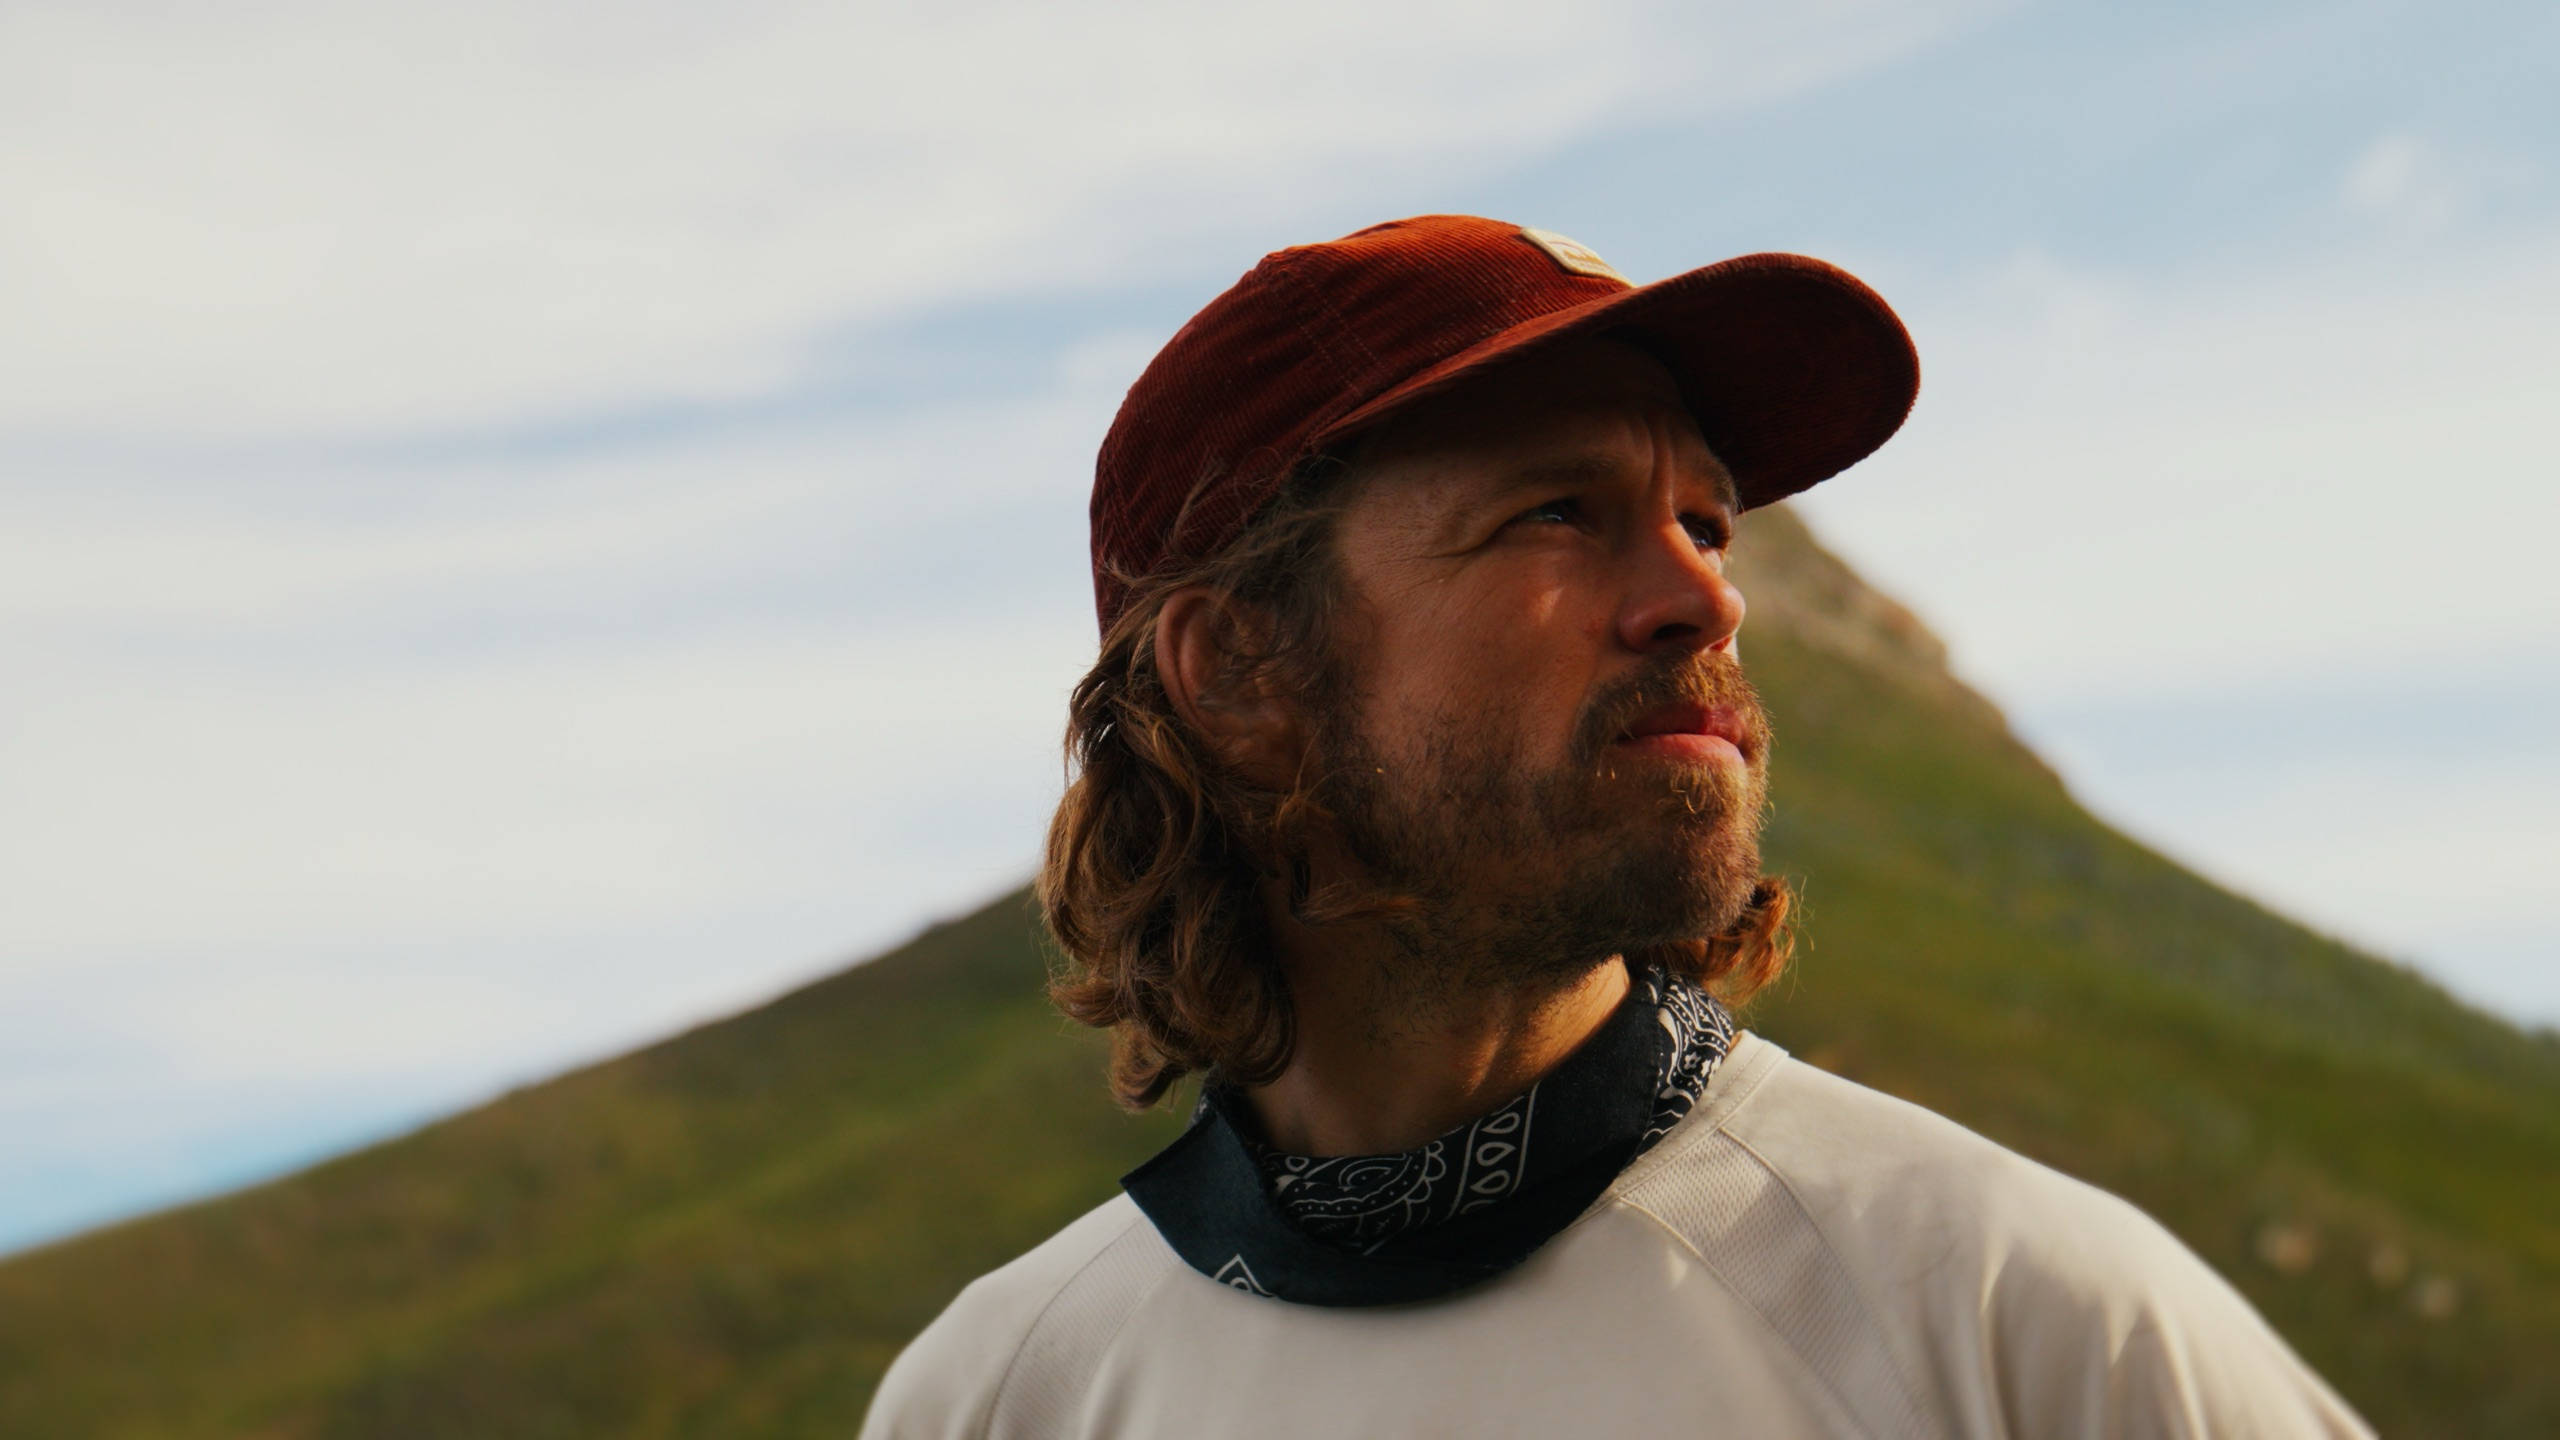
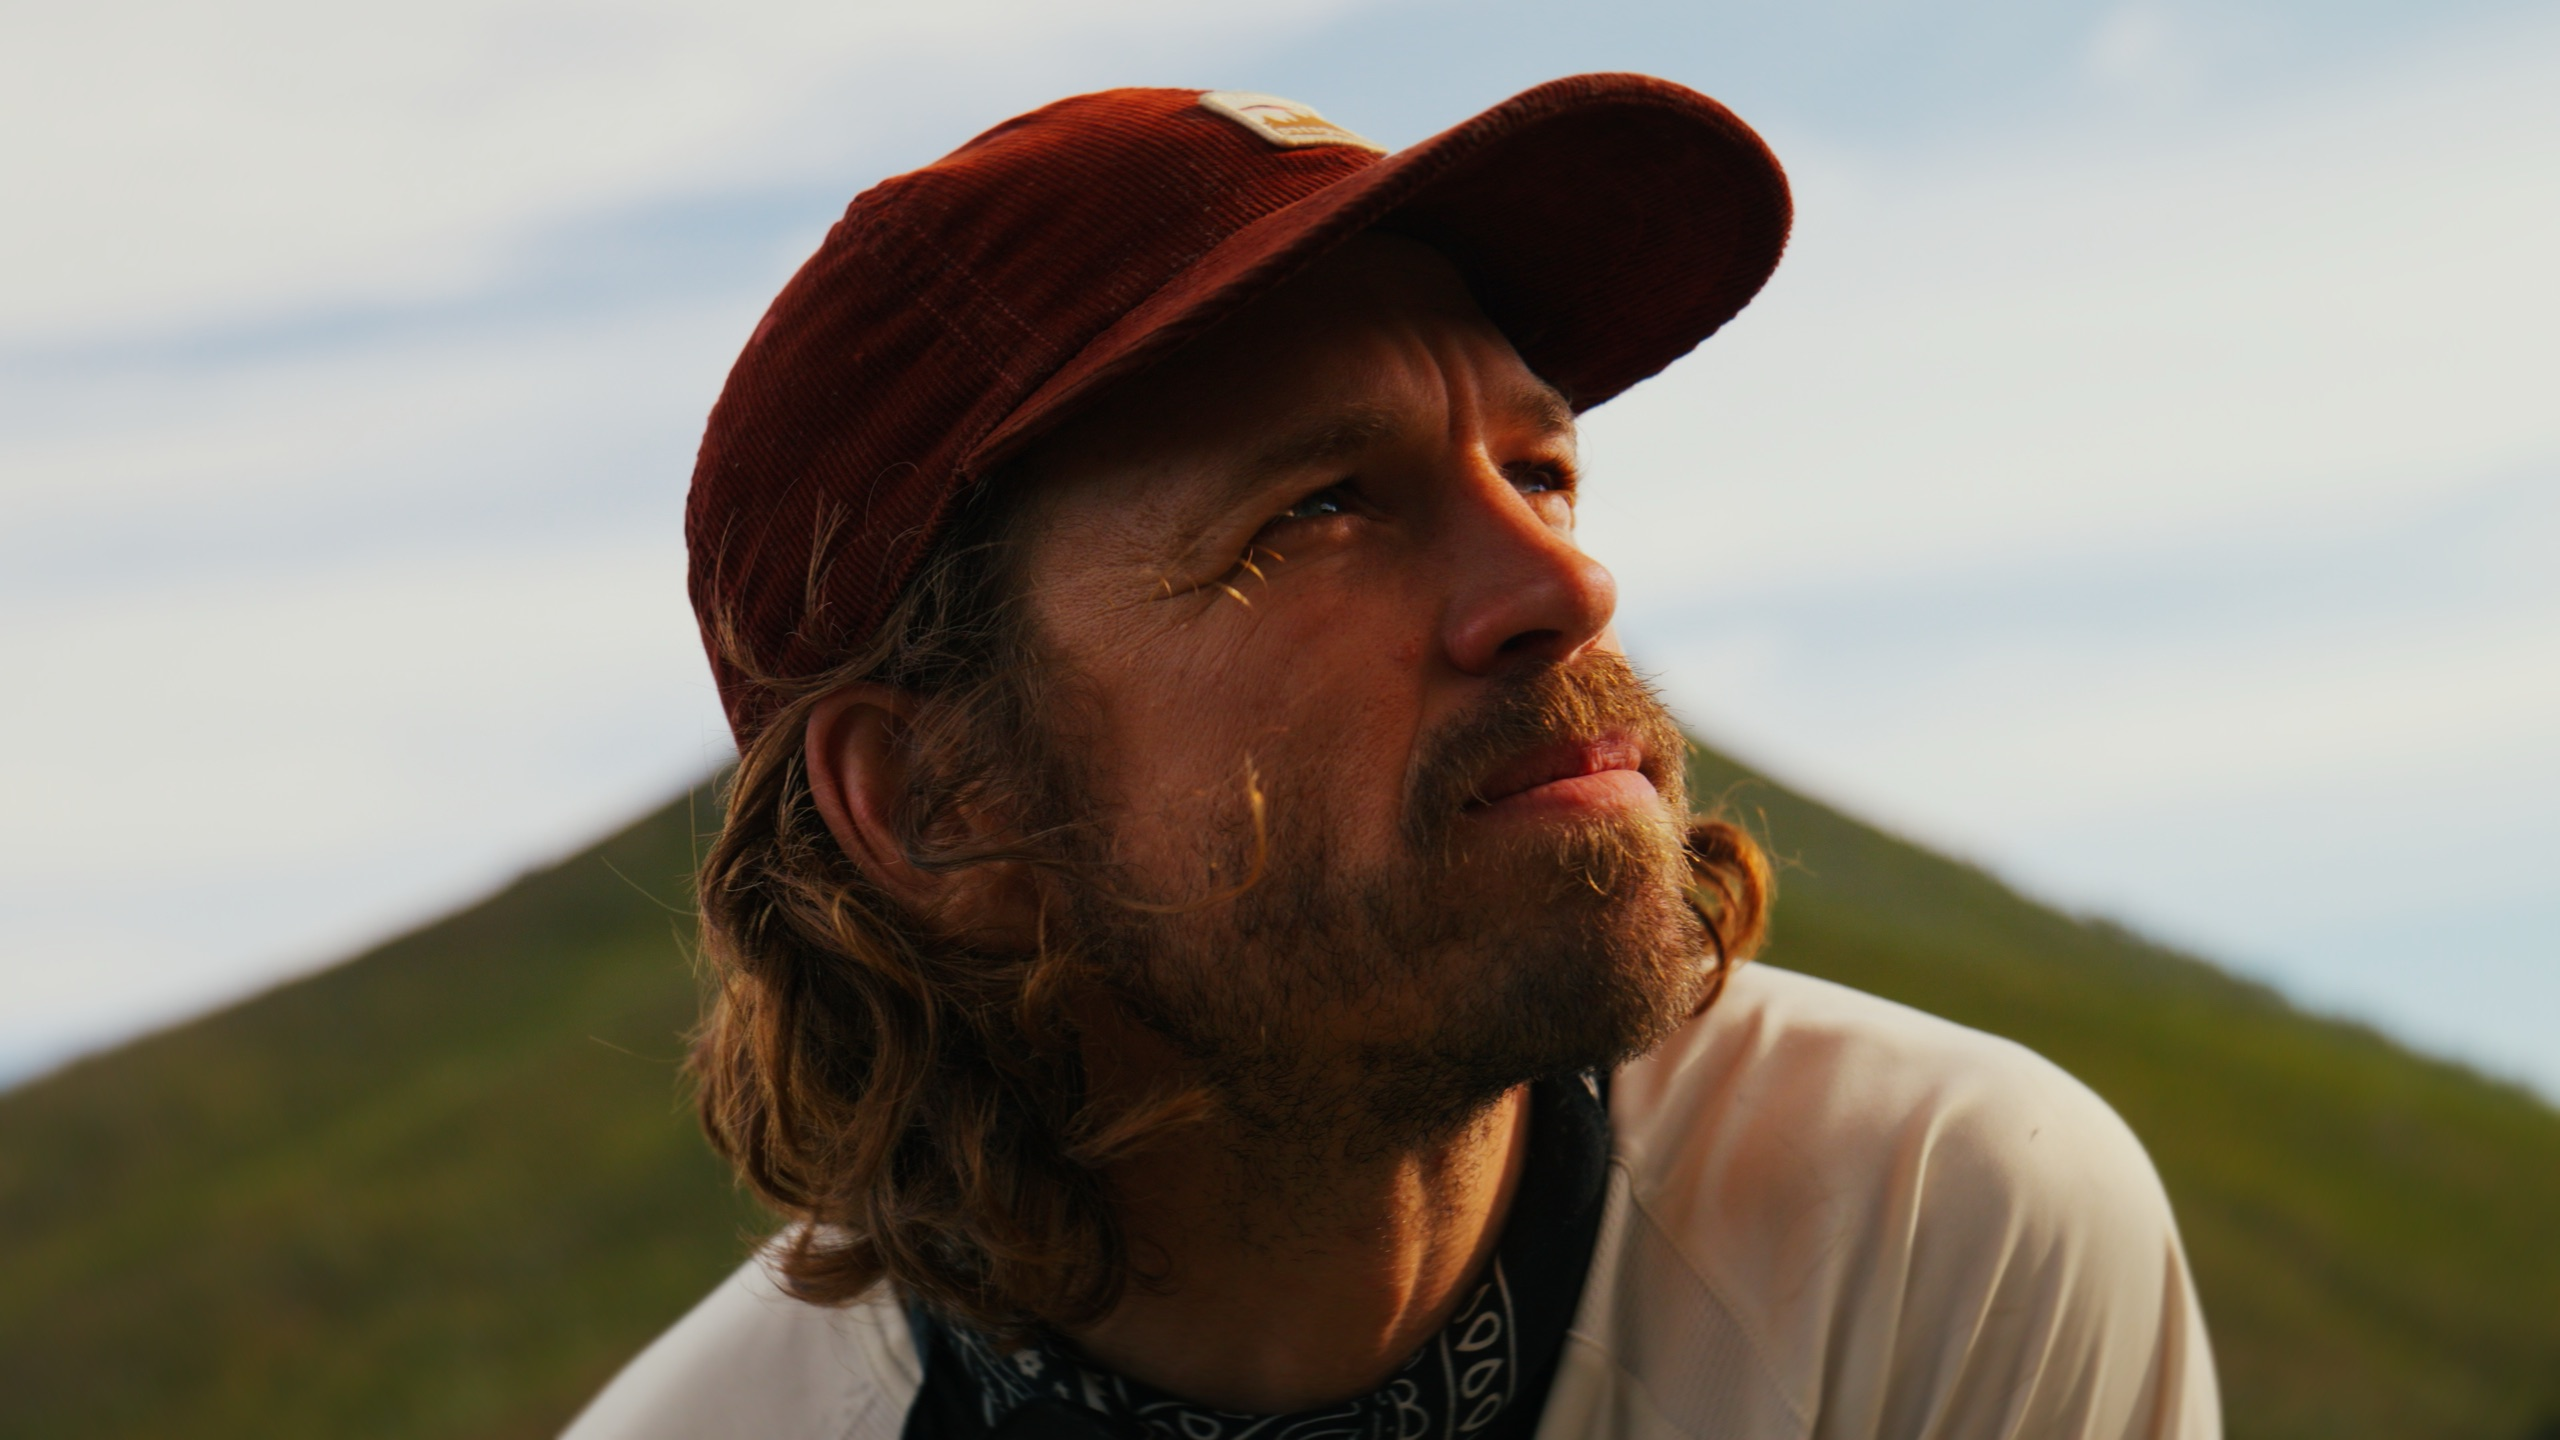
Portraits: new cover + marti photo (optimized), focal 40%

diff --git a/src/data/work.ts b/src/data/work.ts
@@ -95,7 +95,7 @@ export interface PhotoAlbum {
 
 /** Per-album banner crop focal point (object-position). Default centres it. */
 const heroFocus: Record<string, string> = {
-  portraits: '50% 38%', // centre the subject's face in the banner crop
+  portraits: '50% 40%', // centre the subject's face in the banner crop
 };
 
 const albumFiles = import.meta.glob<{ default: ImageMetadata }>(
